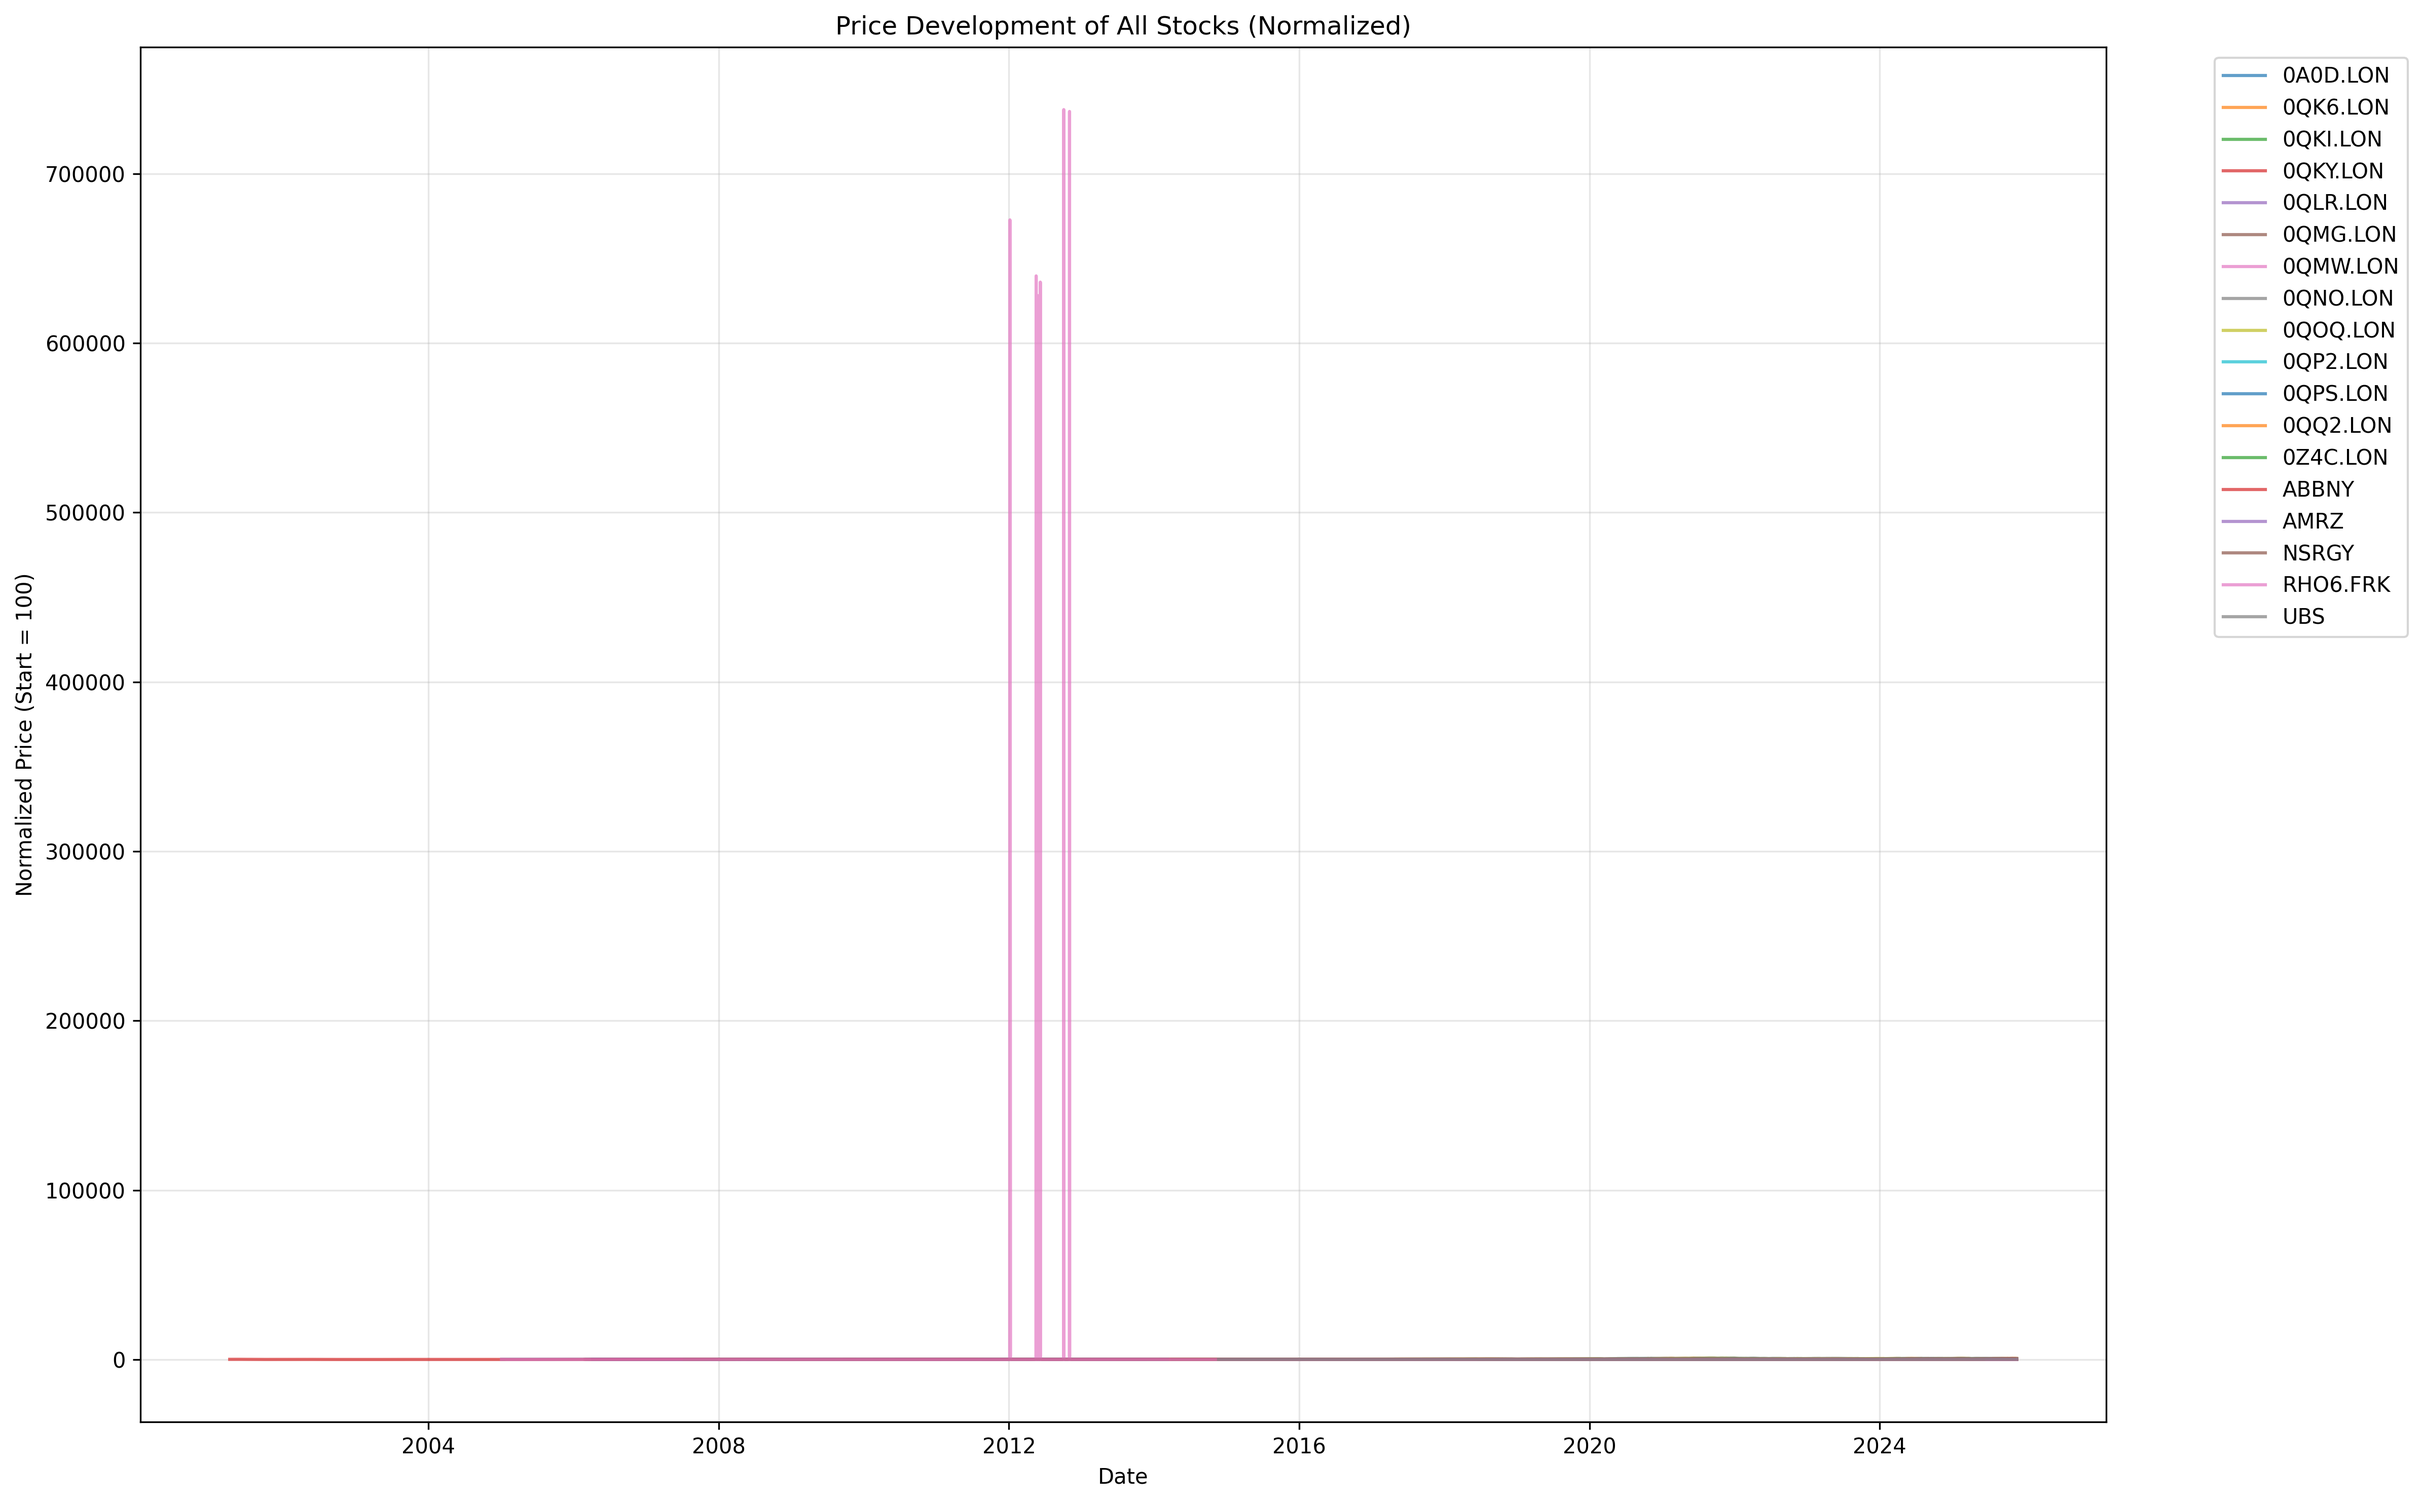
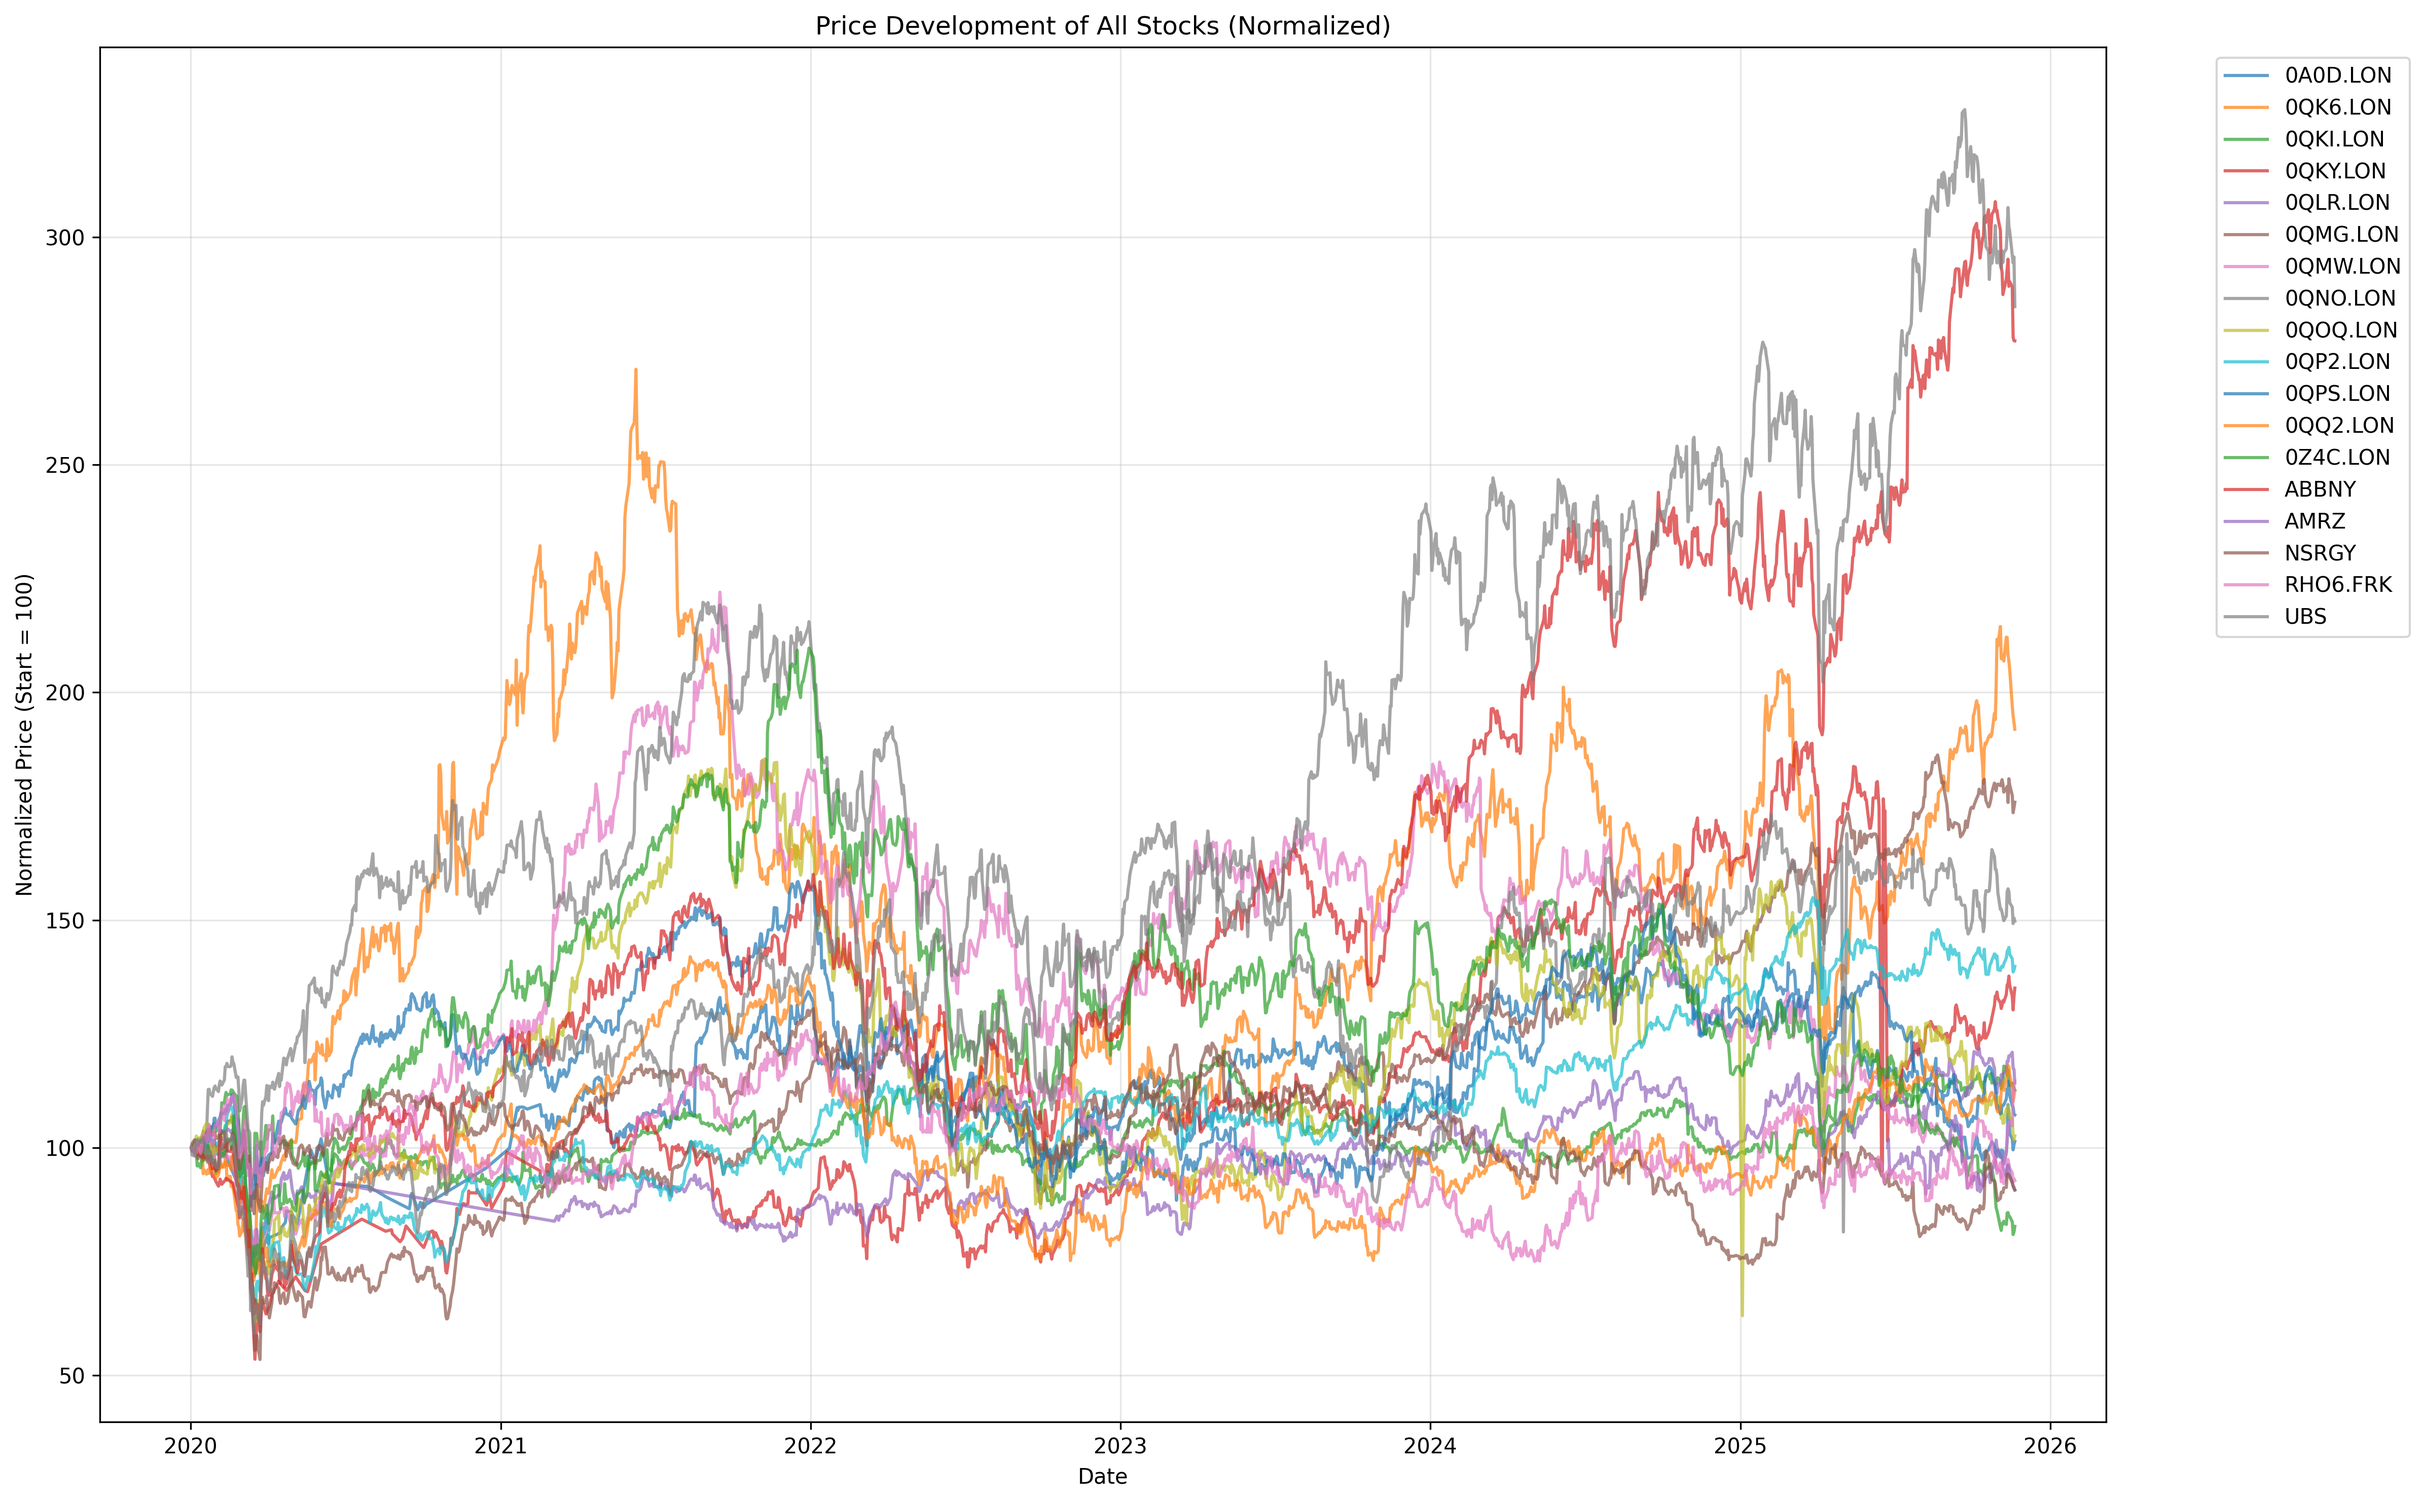
changed analysis exclusive from 2020

diff --git a/analyze_data.py b/analyze_data.py
@@ -10,6 +10,7 @@ from datetime import datetime
 import matplotlib.pyplot as plt
 import seaborn as sns
 import numpy as np
+from statsmodels.tsa.seasonal import seasonal_decompose
 
 # Configuration
 DATA_DIR = "alphavantage_data"
@@ -53,6 +54,14 @@ def load_all_data():
         try:
             df = pd.read_csv(file_path)
             df['date'] = pd.to_datetime(df['date'])
+            
+            # Filter for data from 2020 onwards
+            df = df[df['date'] >= '2020-01-01']
+            
+            if df.empty:
+                print(f"⚠ Skipped: {ticker} (no data from 2020 onwards)")
+                continue
+                
             df = df.sort_values('date')
             all_data[ticker] = df
             print(f"✓ Loaded: {ticker} ({len(df)} rows)")
@@ -236,6 +245,9 @@ def analyze_correlations(all_data):
     
     correlation_df = pd.DataFrame(price_data)
     
+    # Rename columns/index to company names
+    correlation_df.columns = [TICKER_TO_COMPANY.get(t, t) for t in correlation_df.columns]
+    
     # Calculate correlation matrix
     corr_matrix = correlation_df.corr()
     
@@ -245,12 +257,123 @@ def analyze_correlations(all_data):
     
     # Visualize correlation matrix
     plt.figure(figsize=(14, 12))
+    
+    # Create mask for upper triangle
+    mask = np.triu(np.ones_like(corr_matrix, dtype=bool))
+    
     sns.heatmap(corr_matrix, annot=True, fmt='.2f', cmap='coolwarm', 
-                center=0, square=True, linewidths=1, cbar_kws={"shrink": 0.8})
+                center=0, square=True, linewidths=1, cbar_kws={"shrink": 0.8},
+                mask=mask)
     plt.title('Correlation Matrix of Stock Prices')
     plt.tight_layout()
     plt.savefig(os.path.join(OUTPUT_DIR, "correlation_matrix.png"), dpi=300, bbox_inches='tight')
     print("✓ Saved: correlation_matrix.png")
+    plt.close()
+
+def analyze_decomposition(all_data):
+    """Analyzes time series decomposition (Trend, Seasonality, Residuals)"""
+    
+    print("\n" + "="*80)
+    print("DECOMPOSITION ANALYSIS")
+    print("="*80 + "\n")
+    
+    # Filter for stocks with enough data (at least 2 years approx for good seasonality)
+    # Using period=252 for daily data (approx 1 trading year)
+    period = 252
+    
+    valid_stocks = {}
+    for ticker, df in all_data.items():
+        if len(df) > period * 2:
+            valid_stocks[ticker] = df
+    
+    if not valid_stocks:
+        print("⚠ Not enough data for decomposition analysis (need > 2 years)")
+        return
+
+    print(f"Performing decomposition for {len(valid_stocks)} stocks...")
+    
+    # Create a figure with 4 subplots
+    fig, axes = plt.subplots(4, 1, figsize=(16, 20), sharex=True)
+    
+    # Colors for different stocks
+    colors = plt.cm.tab20(np.linspace(0, 1, len(valid_stocks)))
+    
+    for i, (ticker, df) in enumerate(valid_stocks.items()):
+        company_name = TICKER_TO_COMPANY.get(ticker, ticker)
+        
+        # Ensure index is datetime and sorted
+        ts = df.set_index('date')['close'].asfreq('B') # Business days
+        ts = ts.fillna(method='ffill') # Fill missing business days
+        
+        try:
+            # Multiplicative model usually better for stock prices (variance increases with level)
+            # But additive is more robust if there are zeros or negatives (unlikely here)
+            # Using additive for simplicity in visualization overlay, or multiplicative?
+            # Let's use additive for visualization stability across many stocks
+            result = seasonal_decompose(ts, model='additive', period=period)
+            
+            # Normalize components for comparison? 
+            # Or just plot raw values? Raw values might be hard to compare if prices vary wildly.
+            # Let's normalize trend and observed to start at 100.
+            # Seasonality and resid will be relative.
+            
+            # Actually, user asked for "all stocks together in one graphic".
+            # Normalized is best for Trend/Observed.
+            
+            start_val = result.trend.dropna().iloc[0]
+            if start_val == 0: start_val = 1
+            
+            norm_trend = (result.trend / start_val) * 100
+            
+            # Plot Trend
+            axes[0].plot(result.trend.index, norm_trend, label=company_name, color=colors[i], alpha=0.8)
+            
+            # Plot Seasonality (not normalized, but maybe scaled?)
+            # Seasonality in additive model is absolute value. 
+            # If we want to compare, maybe % of price?
+            # Let's stick to raw additive seasonality for now, but it might be messy.
+            # Alternative: Decompose Log prices -> Additive becomes Multiplicative equivalent.
+            # Let's try decomposing Log prices for better comparability?
+            # No, let's stick to simple additive but maybe just plot it.
+            # If prices range from 10 to 1000, additive seasonality will be huge for 1000.
+            # Let's normalize seasonality by dividing by trend? -> effectively multiplicative
+            
+            axes[1].plot(result.seasonal.index, result.seasonal, label=company_name, color=colors[i], alpha=0.5)
+            
+            # Plot Residuals
+            axes[2].plot(result.resid.index, result.resid, label=company_name, color=colors[i], alpha=0.5)
+            
+            # Plot Observed (Normalized)
+            norm_observed = (ts / ts.iloc[0]) * 100
+            axes[3].plot(ts.index, norm_observed, label=company_name, color=colors[i], alpha=0.8)
+            
+        except Exception as e:
+            print(f"⚠ Could not decompose {ticker}: {e}")
+            continue
+
+    axes[0].set_title('Trend Component (Normalized, Start=100)')
+    axes[0].grid(True, alpha=0.3)
+    # axes[0].legend(bbox_to_anchor=(1.05, 1), loc='upper left', fontsize='small')
+    
+    axes[1].set_title('Seasonal Component (Additive)')
+    axes[1].grid(True, alpha=0.3)
+    
+    axes[2].set_title('Residuals')
+    axes[2].grid(True, alpha=0.3)
+    
+    axes[3].set_title('Observed Data (Normalized, Start=100)')
+    axes[3].grid(True, alpha=0.3)
+    
+    # Add single legend to the right
+    handles, labels = axes[0].get_legend_handles_labels()
+    fig.legend(handles, labels, loc='center right', bbox_to_anchor=(1.1, 0.5))
+    
+    plt.tight_layout()
+    # Adjust layout to make room for legend
+    plt.subplots_adjust(right=0.85)
+    
+    plt.savefig(os.path.join(OUTPUT_DIR, "decomposition_analysis.png"), dpi=300, bbox_inches='tight')
+    print("✓ Saved: decomposition_analysis.png")
     plt.close()
 
 def generate_summary_report(stats_df):
@@ -313,6 +436,9 @@ def main():
     
     # 4. Analyze correlations
     analyze_correlations(all_data)
+
+    # 5. Analyze decomposition
+    analyze_decomposition(all_data)
     
     # 5. Create visualizations
     create_visualizations(all_data, stats_df)
@@ -334,7 +460,8 @@ def main():
     print("  - top_volume.png")
     print("  - temporal_coverage.png")
     print("  - correlation_matrix.csv")
-    print("  - correlation_matrix.png\n")
+    print("  - correlation_matrix.png")
+    print("  - decomposition_analysis.png\n")
 
 if __name__ == "__main__":
     main()
